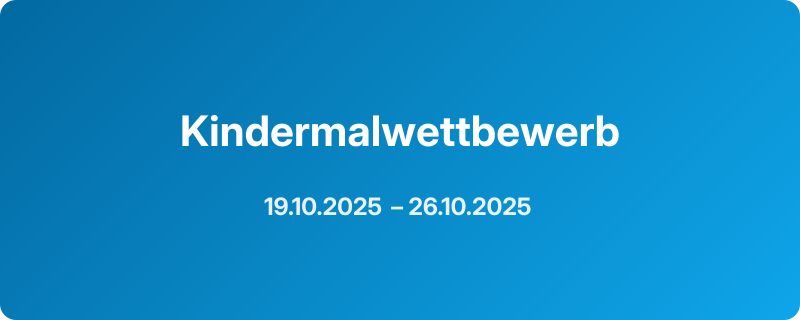
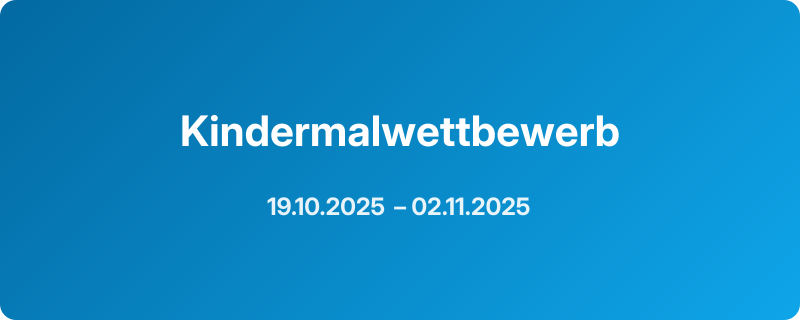
24-10-2025_01

Changed region(s): [[0.3125, 0.5938, 0.6562, 0.6875]]

diff --git a/src/pages/api/verify/[id].ts b/src/pages/api/verify/[id].ts
@@ -26,7 +26,7 @@ export const POST: APIRoute = async ({ params }) => {
   return new Response(null, {
     status: 303,
     headers: {
-      Location: "/en/childrens-painting-competition-2025/admin/verify",
+      Location: "/admin/verify",
     },
   });
 };
